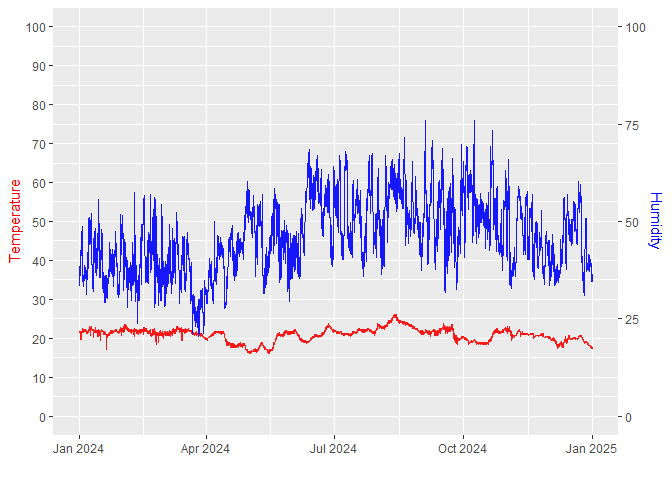
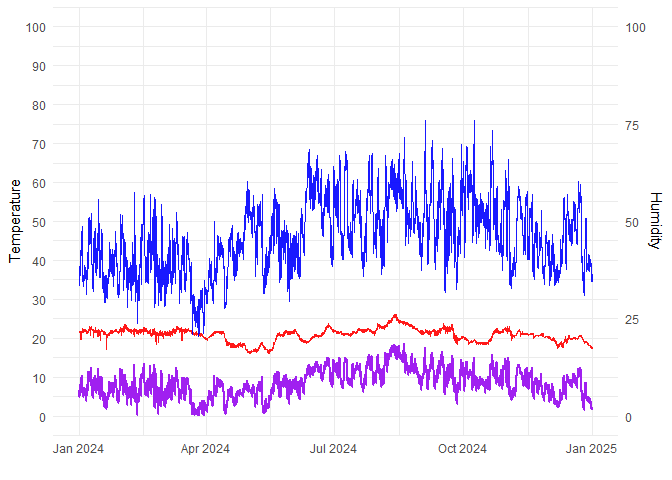
site

Changed region(s): [[0.0938, 0.7188, 0.875, 0.875], [0.0, 0.375, 0.0312, 0.5312], [0.9688, 0.4062, 1.0, 0.5312]]

diff --git a/README.md b/README.md
@@ -84,31 +84,21 @@ head(mydata)
 # Peform calculations
 head(mydata) |>
   mutate(
-    DewPoint = calcDP(Temp, RH), 
-    AbsHum = calcAH(Temp, RH), 
+    DewP = calcDP(Temp, RH), 
+    Abs = calcAH(Temp, RH), 
     LifeTime = calcLM(Temp, RH, EA = 100), 
-    PreservationIndex = calcPI(Temp, RH))
+    PI = calcPI(Temp, RH)
+    )
 #> # A tibble: 6 × 9
-#>   Site   Sensor Date                 Temp    RH DewPoint AbsHum LifeTime
-#>   <chr>  <chr>  <dttm>              <dbl> <dbl>    <dbl>  <dbl>    <dbl>
-#> 1 London Room 1 2024-01-01 00:00:00  21.8  36.8     6.38   7.05     1.85
-#> 2 London Room 1 2024-01-01 00:15:00  21.8  36.7     6.34   7.03     1.85
-#> 3 London Room 1 2024-01-01 00:29:59  21.8  36.6     6.30   7.01     1.85
-#> 4 London Room 1 2024-01-01 00:44:59  21.7  36.6     6.22   6.97     1.85
-#> 5 London Room 1 2024-01-01 00:59:59  21.7  36.5     6.18   6.95     1.86
-#> 6 London Room 1 2024-01-01 01:14:59  21.7  36.2     6.06   6.90     1.86
-#> # ℹ 1 more variable: PreservationIndex <dbl>
+#>   Site   Sensor Date                 Temp    RH  DewP   Abs LifeTime    PI
+#>   <chr>  <chr>  <dttm>              <dbl> <dbl> <dbl> <dbl>    <dbl> <dbl>
+#> 1 London Room 1 2024-01-01 00:00:00  21.8  36.8  6.38  7.05     1.85  45.3
+#> 2 London Room 1 2024-01-01 00:15:00  21.8  36.7  6.34  7.03     1.85  45.4
+#> 3 London Room 1 2024-01-01 00:29:59  21.8  36.6  6.30  7.01     1.85  45.5
+#> 4 London Room 1 2024-01-01 00:44:59  21.7  36.6  6.22  6.97     1.85  46.1
+#> 5 London Room 1 2024-01-01 00:59:59  21.7  36.5  6.18  6.95     1.86  46.2
+#> 6 London Room 1 2024-01-01 01:14:59  21.7  36.2  6.06  6.90     1.86  46.6
 ```
-
-- Graphs
-
-``` r
-# Produce graphs 
-mydata |>
-  graph_TRH()
-```
-
-<img src="man/figures/README-unnamed-chunk-5-1.png" width="100%" />
 
 - Combine analysis with graphs
 
@@ -117,7 +107,20 @@ mydata |>
   mutate(DewPoint = calcDP(Temp, RH)) |>
   graph_TRH() + 
   geom_line(aes(Date, DewPoint), col = "purple", size = 1) + 
-  theme_bw()
+  theme_minimal()
+```
+
+<img src="man/figures/README-unnamed-chunk-5-1.png" width="100%" />
+
+- Use analysis functions, for example estimate mould growth
+
+``` r
+mydata |>
+  calcMould(Temp = "Temp", RH = "RH") |>
+  ggplot() +
+  geom_area(aes(Date, mould), fill = "darkgreen", size = 1) +
+  labs(title = "Probabilty of mould", x = "", y = "Mould risk") + 
+  theme_minimal()
 ```
 
 <img src="man/figures/README-unnamed-chunk-6-1.png" width="100%" />
